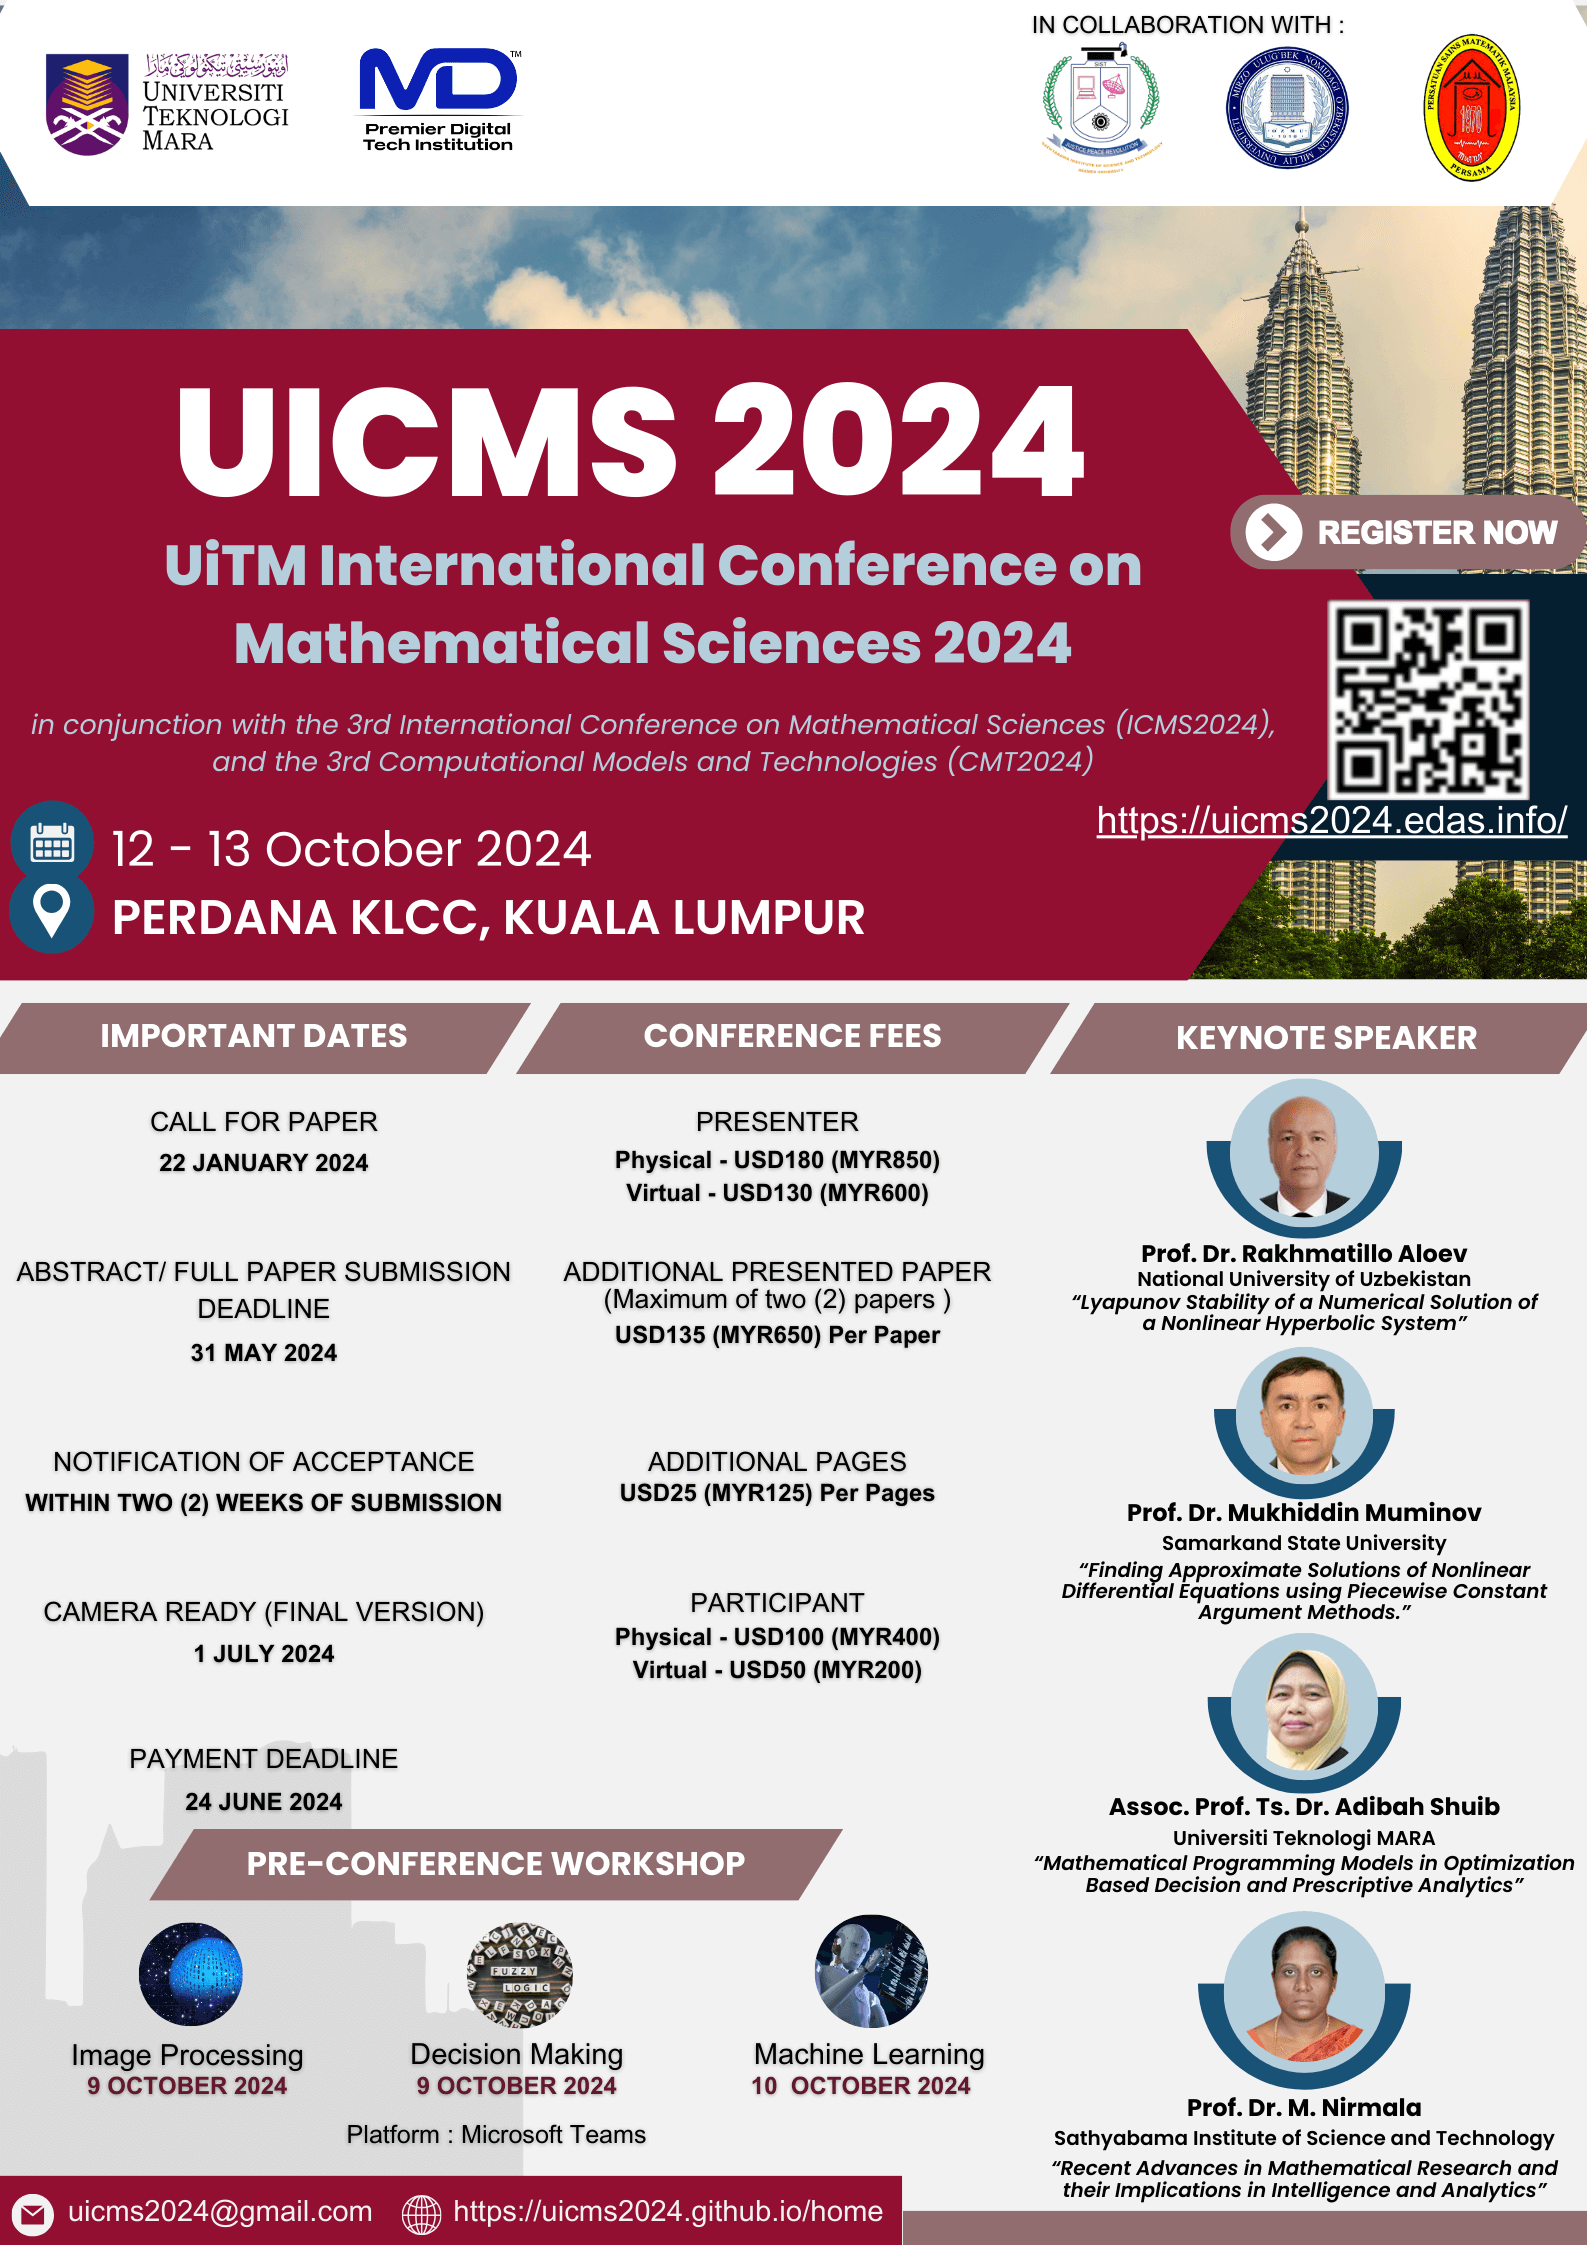
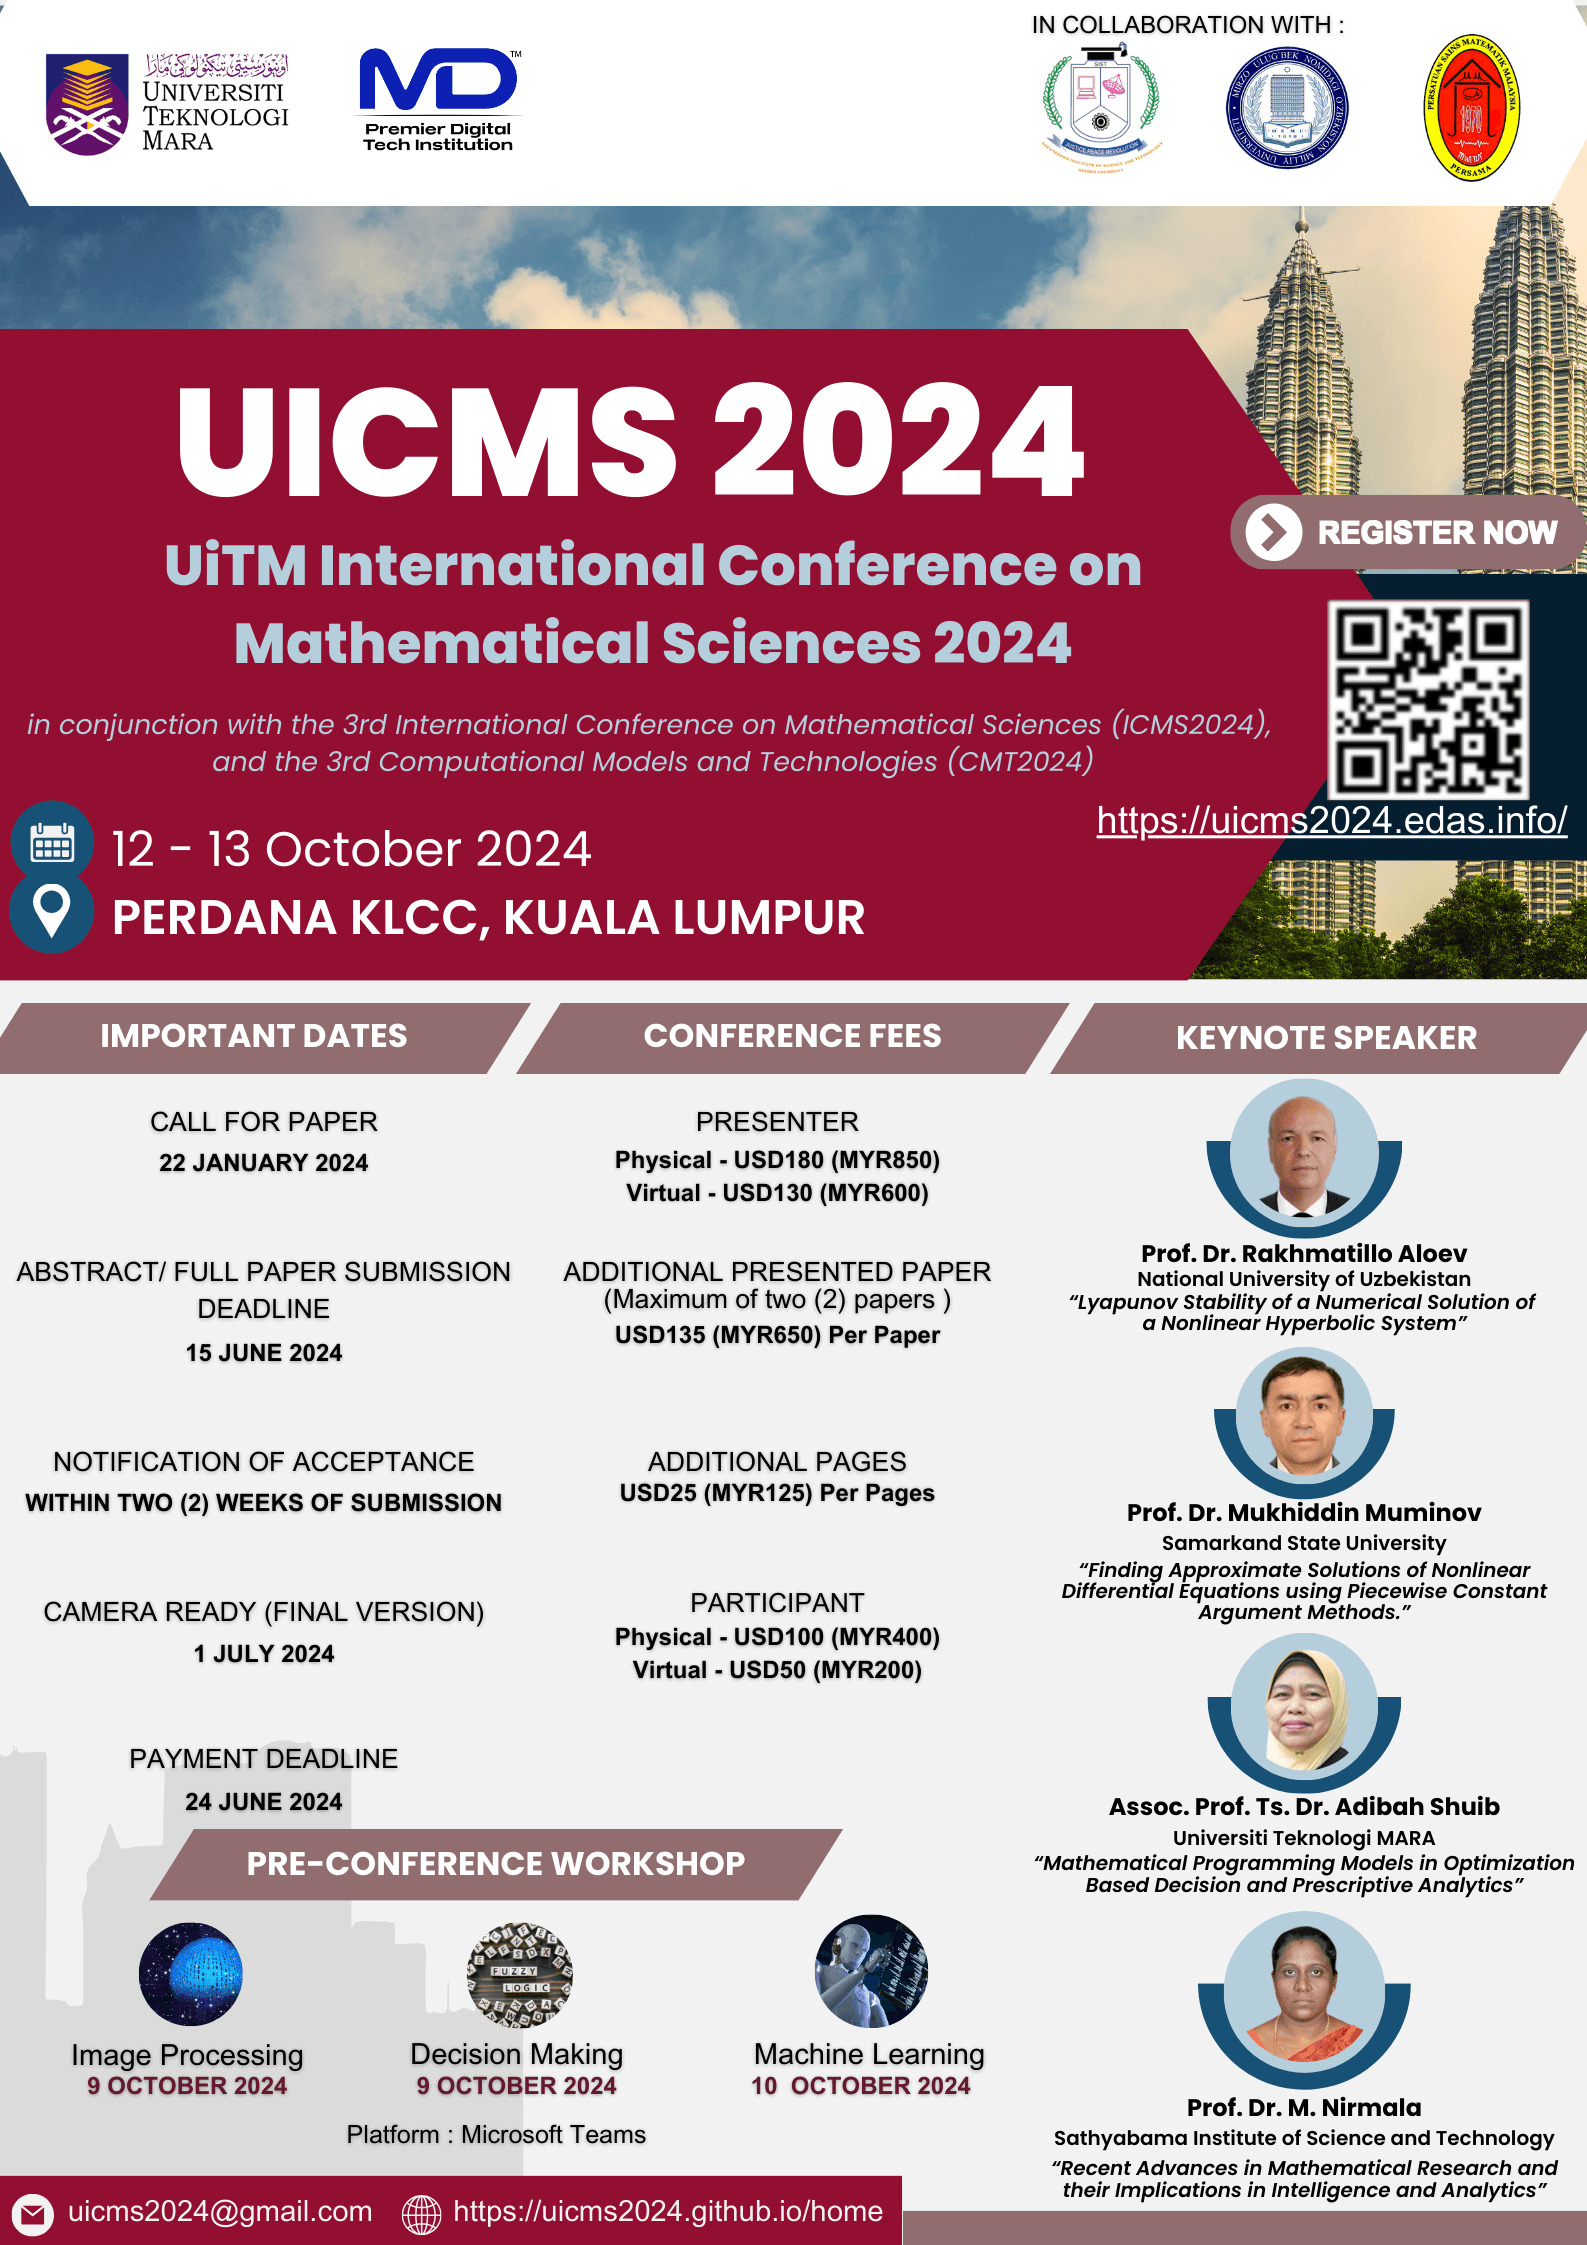
Change deadline to 15 June 2024 and upload new uicms2024.jpg file

Changed region(s): [[0.0309, 0.3118, 0.8028, 0.343], [0.6793, 0.5612, 0.9572, 0.5924], [0.1235, 0.5924, 0.2161, 0.6236]]

diff --git a/src/app/dates/dates.component.html b/src/app/dates/dates.component.html
@@ -16,7 +16,8 @@
         <td>Full Paper Submission Deadline</td>
         <td><span class="text-decoration-line-through">15 February 2024 - 31 March 2024</span><br />
           <span class="text-decoration-line-through">30 April 2024</span><br>
-          <span>31 May 2024</span>
+          <span class="text-decoration-line-through">31 May 2024</span>
+          <span>15 June 2024</span>
         </td>
         <!-- <td>1 February 2024 - 30 April 2024</td> -->
         <!-- <td>30 April 2024 - 31 June 2024</td> -->
